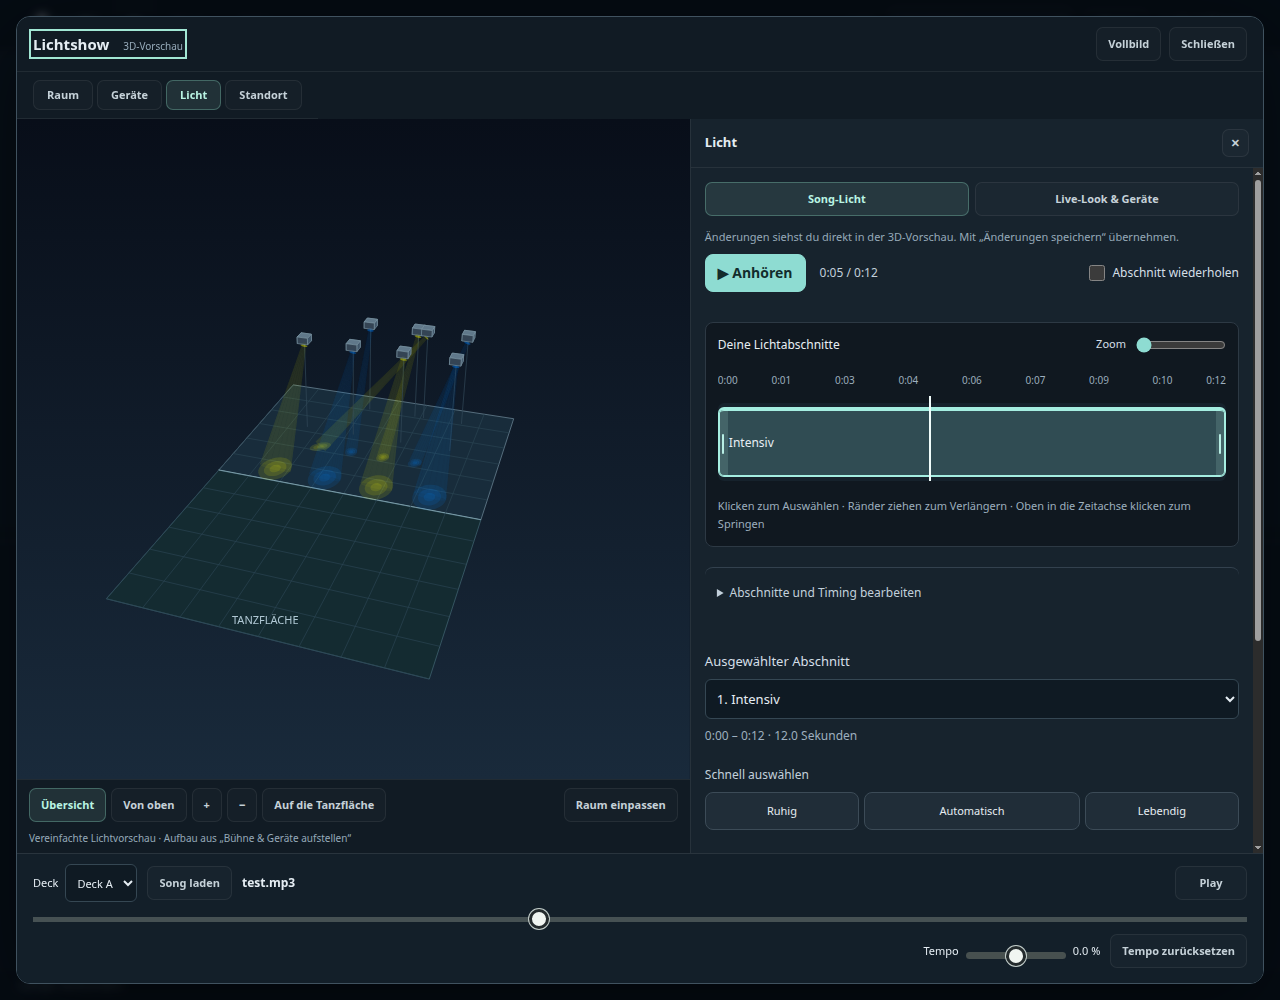
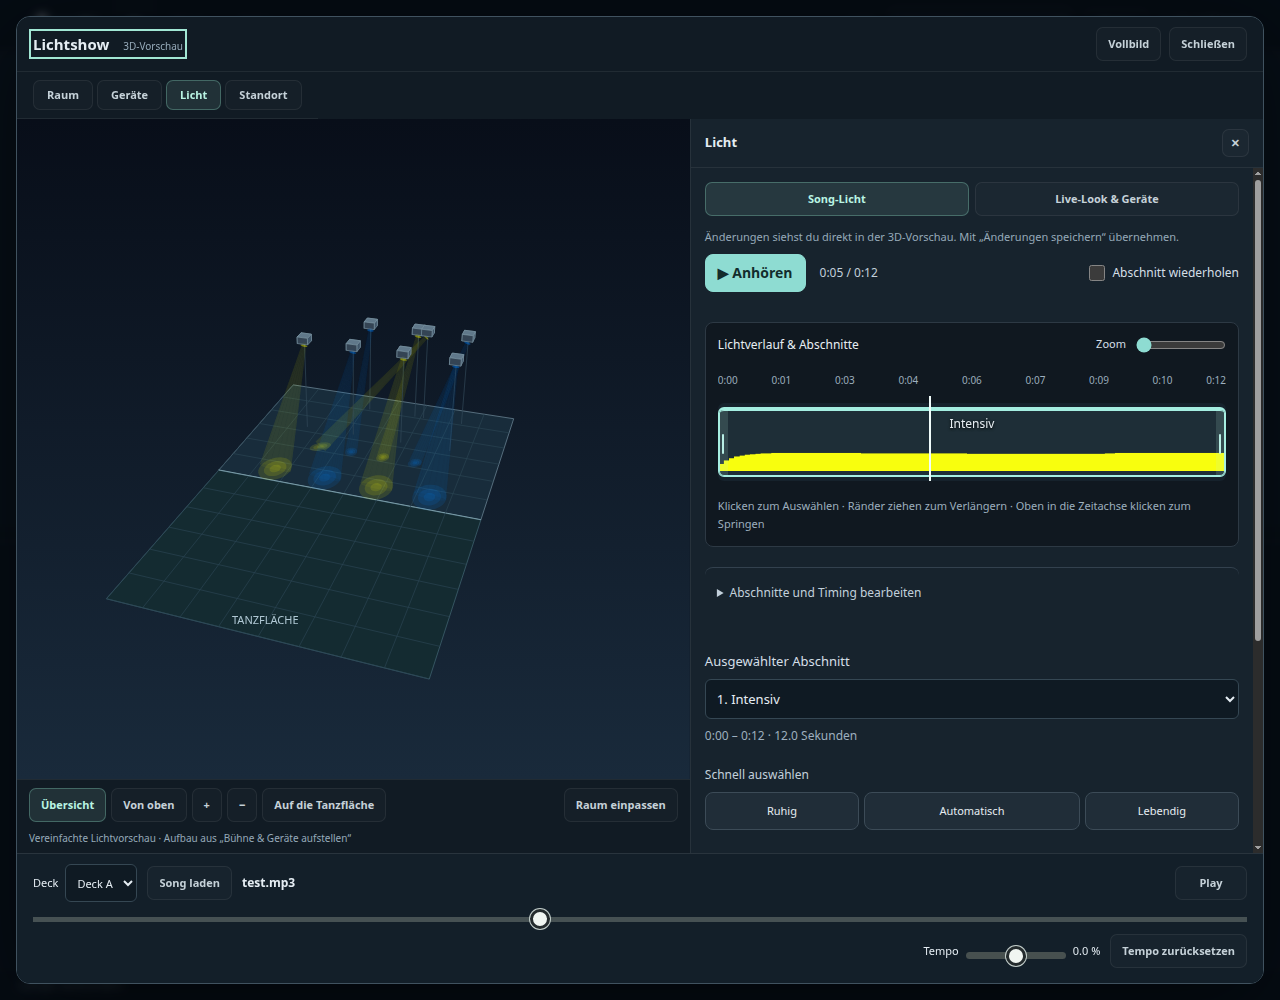
Fixed

Changed region(s): [[0.5625, 0.403, 0.9688, 0.496], [0.5625, 0.341, 0.6562, 0.372], [0.4062, 0.899, 0.4375, 0.93]]

diff --git a/public/light-editor.js b/public/light-editor.js
@@ -14,7 +14,7 @@ export function createLightEditor(host,{plan,edits,title='Lichtshow',position=()
       <div class="le-transport"><button type="button" data-play disabled>▶ Anhören</button><output data-clock></output><label class="le-check"><input type="checkbox" data-loop> Abschnitt wiederholen</label></div>
       <p class="le-audio-note" data-audio-note hidden>Zum Anhören die Audiodatei im DJ-Pult laden. Die Lichtvorschau ist bereits verfügbar.</p>
       <div class="le-timeline-card"><div class="le-timeline-tools"><strong>Deine Lichtabschnitte</strong><label class="le-zoom">Zoom<input data-zoom type="range" min="1" max="8" step="1" value="1"></label></div><div data-timeline></div><p class="le-guidance">Klicken zum Auswählen · Ränder ziehen zum Verlängern · Oben in die Zeitachse klicken zum Springen</p></div>
-      <div class="le-preview-card"><div data-set-preview hidden></div><div class="light-editor-preview"><span data-orb aria-hidden="true"></span><div><strong>Lichtvorschau</strong><p>Farbe und Helligkeit an der Abspielposition</p></div></div><canvas width="800" height="44" aria-label="Farb- und Helligkeitsverlauf der Lichtshow"></canvas></div>
+      <div class="le-preview-card"><div data-set-preview hidden></div><div class="light-editor-preview"><span data-orb aria-hidden="true"></span><div><strong>Lichtvorschau</strong><p>Farbe und Helligkeit an der Abspielposition</p></div></div><strong class="le-curve-heading">Lichtverlauf</strong><canvas width="800" height="44" aria-label="Farb- und Helligkeitsverlauf der Lichtshow"></canvas></div>
       <details class="le-tools"><summary>Abschnitte und Timing bearbeiten</summary><div class="le-tool-grid"><label>Zeiten einrasten<select data-snap><option value="beat">Am Beat</option><option value="bar">Am Takt</option><option value="free">Frei</option></select></label><label>Teilung bei Sekunde<input data-split-time type="number" min="0" step="any"></label></div><div class="le-actions"><button type="button" data-position>Position aus dem DJ-Pult</button><button type="button" data-split>Hier teilen</button><button type="button" data-merge>Mit nächstem verbinden</button><button type="button" data-add>In freiem Bereich hinzufügen</button><button type="button" data-duplicate>Duplizieren</button><button type="button" data-delete>Abschnitt entfernen</button></div><p>Freie Bereiche verwenden die automatisch berechnete Show. Zum Verschieben braucht ein Abschnitt freien Platz.</p><p>Tastatur: Pfeiltasten verschieben im gewählten Raster. Bei „Frei“: 0,1 s, mit Umschalt: 1 s.</p><button type="button" data-reset>Alle Abschnitte zurücksetzen</button></details>
     </section>
     <aside class="le-inspector" aria-label="Ausgewählten Abschnitt gestalten">

diff --git a/public/dmx-stage-3d.css b/public/dmx-stage-3d.css
@@ -100,7 +100,9 @@ html:has(.stage-3d-dialog[open]){overflow:hidden}body:has(.stage-3d-dialog[open]
 .stage-3d-light-tabs{display:flex;gap:6px;margin-bottom:12px}.stage-3d-light-tabs .button{flex:1}
 .stage-3d-song-editor-hint{font-size:11px;margin:0 0 10px}
 .stage-3d .stage-3d-song-editor .light-editor{width:100%;max-width:none;padding:0;background:transparent;min-width:0}
-.stage-3d .stage-3d-song-editor .le-header,.stage-3d .stage-3d-song-editor .le-preview-card,.stage-3d .stage-3d-song-editor .le-intro{display:none}
+.stage-3d .stage-3d-song-editor .le-header,.stage-3d .stage-3d-song-editor .le-preview-card [data-set-preview],.stage-3d .stage-3d-song-editor .light-editor-preview,.stage-3d .stage-3d-song-editor .le-intro{display:none}
+.stage-3d .stage-3d-song-editor .le-preview-card{padding:12px;border-radius:8px}
+.stage-3d .stage-3d-song-editor .le-preview-card canvas{height:44px;margin-top:8px}
 .stage-3d .stage-3d-song-editor .le-workspace{display:flex;flex-direction:column;gap:12px;padding:0;min-width:0}
 .stage-3d .stage-3d-song-editor .le-main,.stage-3d .stage-3d-song-editor .le-inspector{padding:0;min-width:0;border:0;background:transparent}
 .stage-3d .stage-3d-song-editor .le-timeline-card,.stage-3d .stage-3d-song-editor .le-tools{padding:12px;border-radius:8px}
@@ -112,3 +114,13 @@ html:has(.stage-3d-dialog[open]){overflow:hidden}body:has(.stage-3d-dialog[open]
 .stage-3d-transport .stage-3d-song-position{height:24px;margin-top:5px}
 .stage-3d-transport .stage-3d-song-bottom{justify-content:flex-end}
 @media(max-width:760px){.stage-3d-workspace.has-tools.editing-song{grid-template-columns:minmax(0,1fr)}.stage-3d .stage-3d-song-editor .le-tool-grid{grid-template-columns:1fr}}
+
+/* One time axis for section editing and the draft's colour/brightness curve. */
+.stage-3d .stage-3d-song-editor .le-preview-card{display:none}
+.stage-3d .stage-3d-song-editor .le-combined canvas{position:absolute;left:0;bottom:10px;width:100%;height:44px;margin:0;border-radius:0;pointer-events:none;z-index:1;background:transparent}
+.stage-3d .stage-3d-song-editor .le-combined .le-phases{background:#16222c}
+.stage-3d .stage-3d-song-editor .le-combined .le-phase{z-index:2;background:transparent}
+.stage-3d .stage-3d-song-editor .le-combined .le-phase[data-selected=true]{background:#a5eee110}
+.stage-3d .stage-3d-song-editor .le-combined .le-move{display:flex;align-items:flex-start;padding:6px 10px;text-shadow:0 1px 3px #000}
+.stage-3d .stage-3d-song-editor .le-combined .le-move:hover{background:#ffffff0a}
+.stage-3d .stage-3d-song-editor .le-combined .le-playhead{z-index:3}

diff --git a/web/index.html b/web/index.html
@@ -23,6 +23,10 @@
  <div class="section-heading"><p class="eyebrow">AUTOMATISCHE LICHTBERECHNUNG</p><h2>Die Musik gibt<br>dem Licht den Takt.</h2><p>Aus deinen Tracks entsteht eine Lichtshow, die Rhythmus, Energie und Songverlauf aufgreift.</p></div>
  <div class="story-copy"><h3>Akzente für den Beat. Raum für ruhige Momente.</h3><p>AnyDj berechnet Lichtwechsel, Helligkeit und Bewegungen passend zur Musik. Beats setzen Akzente, ruhigere Passagen nehmen die Beleuchtung zurück und neue Songabschnitte bringen Abwechslung in die Show.</p><p>Die Desktop-App analysiert dafür Beats, Musikstil, Songstruktur und Instrumentaktivität. Dein gewählter Lichtstil und deine Farben bestimmen den Look. Du kannst die berechnete Show in der Vorschau ansehen und Lichtabschnitte nach deinen Vorstellungen bearbeiten.</p><p>Lass deine Titel vor dem Einsatz analysieren, damit du Mix und Lichtshow in Ruhe vorbereiten kannst.</p></div>
 </section>
+<section class="section requirements dj-story" aria-labelledby="dein-feingefuehl">
+ <div class="section-heading"><p class="eyebrow">DEIN GEFÜHL MACHT DEN UNTERSCHIED</p><h2 id="dein-feingefuehl">Eine gute Show.<br><em>Durch dich unvergesslich.</em></h2></div>
+ <div class="story-copy"><p class="lead">Du spürst, was dein Publikum bewegt.</p><p>AnyDj gibt dir mit automatisch berechneten Übergängen und Lichtshows eine starke Grundlage. Du bringst das Gespür für den nächsten Track, den richtigen Moment und die Stimmung auf der Tanzfläche mit. Damit wird aus einer guten Show dein ganz besonderer Abend.</p><p>Gib jedem Detail deine Handschrift: Verfeinere Ein- und Ausstiege, passe die Dauer deiner Übergänge an und gestalte Farben, Helligkeit und Lichtabschnitte. Probiere deine Ideen in der Vorschau aus, bis sich alles richtig anfühlt.</p><p>Du entscheidest, wie viel du der Automatik überlässt und wo du selbst feinjustierst. Lass uns dir helfen, jeden Abend unvergesslich zu machen.</p><a class="text-link" href="./dj.html">Deine Show gestalten ↗</a></div>
+</section>
 <section class="section" id="buehne">
  <div class="section-heading"><p class="eyebrow">3D-BÜHNE &amp; LICHTVORSCHAU</p><h2>Erlebe dein Licht.<br>Von deinem Platz aus.</h2><p>Baue dein Setup virtuell auf und entdecke, wie Farben, Lichtkegel und Bewegungen im Raum zusammenspielen.</p></div>
  <div class="feature-grid">

diff --git a/public/dmx-stage-workspace.js b/public/dmx-stage-workspace.js
@@ -46,6 +46,12 @@ export function createStageWorkspace(panel,{mountLayout,mountLighting,onFit,tran
       const editor=await transport.mountEditor(editorMount,{signal:pending.signal,onDispose:()=>{if(own!==epoch)return;session=null;songHint.textContent='Entwurf bleibt für diese Sitzung erhalten.';retry.hidden=false;}});
       if(own!==epoch||disposed){editor?.destroy();return;}
       pending=null;session=editor;
+      if(editor){
+        // Share the timeline's zoom, scroll and playhead with the existing light curve.
+        const track=editorMount.querySelector('.le-track'),curve=editorMount.querySelector('.le-preview-card canvas');
+        track.classList.add('le-combined');track.insertBefore(curve,track.querySelector('.le-phases'));
+        editorMount.querySelector('.le-timeline-tools strong').textContent='Lichtverlauf & Abschnitte';
+      }
       songHint.textContent=editor?'Änderungen siehst du direkt in der 3D-Vorschau. Mit „Änderungen speichern“ übernehmen.':'Für diesen Song ist noch kein Lichtplan verfügbar.';
       retry.hidden=Boolean(editor);
     }catch(error){if(own!==epoch)return;pending=null;songHint.textContent=error.message;retry.hidden=false;}

diff --git a/public/light-editor.css b/public/light-editor.css
@@ -36,3 +36,5 @@ dialog.section-editor:has(.light-editor){width:min(1160px,96vw);max-width:96vw;m
 .light-editor .le-preview-card:has([data-set-preview]:not([hidden])) .light-editor-preview{display:none}
 .light-editor .le-preview-card:has([data-set-preview]:not([hidden])) canvas{margin-top:12px;height:24px}
 @media(max-width:600px){.light-editor [data-set-preview] .stage-scene{height:220px}}
+
+.light-editor .le-curve-heading{display:block;font-size:12px;font-weight:500;margin-bottom:8px}

diff --git a/reports/dmx-stage-3d.md b/reports/dmx-stage-3d.md
@@ -10,16 +10,19 @@ liegt sie über der Vorschau; die Musikleiste bleibt weiterhin sichtbar.
 - **Raum:** Club/Bühne wählen, Raummaße und Lichtbereich einstellen.
 - **Geräte:** vorhandenen Geräteplan direkt bearbeiten, einschließlich
   Ziehen, Tastaturnavigation, Montagehöhe und symmetrischem Aufbau.
-- **Licht:** bestehende Live-Look-, Feinschliff-, Ausstattungs- und
-  Verbindungswerkzeuge direkt im Fenster. Die Originalelemente werden
-  vorübergehend eingebettet und anschließend an ihren Platz zurückgegeben.
+- **Licht:** Song-Lichtmanager direkt neben der 3D-Vorschau, mit Abschnittstimeline,
+  Farben, Bewegung, Teilen/Zusammenführen, Undo/Redo und Speichern. Unter
+  „Live-Look & Geräte“ bleiben Feinschliff, Ausstattung und Verbindung erreichbar.
 - **Standort:** Augenhöhe und Position auf der Tanzfläche; die Ansicht wird
   über „Auf die Tanzfläche“ aktiviert.
 - **Song laden:** Bibliothek des DJ-Pults nutzen oder Audiodateien hinzufügen.
   Ein laufendes Deck muss zum Songwechsel pausiert werden.
-- **Song-Licht:** vorhandenen Abschnittseditor für den ausgewählten Song
-  öffnen; dieser pausiert die DJ-Wiedergabe und kehrt beim Schließen in das
-  Arbeitsfenster zurück.
+- **Song-Licht:** nutzt die Audioinstanz des ausgewählten Decks. Positionsbalken
+  und Editor steuern dieselbe Wiedergabe; Änderungen erscheinen direkt in 3D.
+  Speichern lässt den Manager geöffnet. Ungespeicherte Entwürfe bleiben bei
+  Werkzeug-/Deckwechsel und Schließen der 3D-Ansicht für die Sitzung erhalten
+  (nicht nach einem Neuladen der Seite). Die untere Vorschau besteht nur aus
+  einem Positionsbalken ohne zusätzliche Wellenform oder Zeitinformationen.
 
 `dmx-stage-workspace.js` enthält ausschließlich die neue UI-Anordnung.
 `dmx-layout.js` und `dmx-stage.js` stellen kleine Mount-/Restore-Schnittstellen
@@ -123,7 +126,7 @@ Screenshot: `dmx-stage-3d-full.png`.
 
 ## Songsteuerung in der großen Ansicht
 
-Unter der Vorschau: Deck A/B wählen, Wellenform anklicken oder Positionsregler
+Unter der Vorschau: Deck A/B wählen, Positionsregler
 verschieben, Play/Pause und Tempo (−16 bis +16 Prozent, wie im Deck) bedienen.
 Änderungen gehen über die bestehenden Deck-Aktionen an die tatsächliche
 Wiedergabe; Musik und Licht behalten dieselbe Songzeit. Manuelle Tempoänderungen
@@ -135,14 +138,15 @@ bei aktiver Verbindung. Im Full-Modus bleiben die Songregler ausgeblendet.
 `lightStage.setTransport` die Deck-Daten und Aktionen; die 3D-Module kennen keine
 Audio- oder Queue-Interna. Zum Entfernen der 3D-Erweiterung zusätzlich diese
 Anbindung, das Transport-Modul und dessen Asset-Route entfernen.
-`dj-waveform.js` ist ein gemeinsamer Zeichner für Decks und Songsteuerung und
+`dj-waveform.js` zeichnet die Wellenformen der Decks und
 muss für die normalen Decks erhalten bleiben.
 
 Die Deck-Wellenform und ihr Positionsregler werden im selben Takt aktualisiert.
 Die Reglergeometrie berücksichtigt die Knopfbreite. Die Berechnungsinformation
 sitzt in einem festen, bei Bedarf scrollbareren Bereich am Deck-Ende.
 `node scripts/check-dmx-stage-transport.mjs` prüft mit echter Testaudiodatei
-Tempo, Sprünge, Wellenform-Klick, Play/Pause, leeres Deck, pixelgenaue Ausrichtung
+Tempo, Sprünge, integrierten Lichtmanager, gemeinsame Wiedergabe, Speichern,
+Entwurfserhalt, Play/Pause, leeres Deck, pixelgenaue Ausrichtung
 bei 10/50/90 Prozent und stabilen Statusbereich auf Desktop und Mobilgerät.
 
 ## Gemeinsamer Club-Raum
@@ -203,3 +207,14 @@ Figuren still; ausgeblendete Ansichten zeichnen weiterhin nicht.
 Geometrietest und Browserprüfung decken Aktivierung, Animation, reduzierte
 Bewegung, Platzieren/Entfernen, Mengenlimit und Abschalten ab.
 Screenshot: `dmx-stage-3d-crowd.png`.
+
+Der eigenständige Abschnittseditor bleibt außerhalb der 3D-Ansicht verfügbar.
+`node scripts/check-section-lighting.mjs` prüft dessen Bearbeitung, Speicherung,
+Wiederöffnung, mobile Bedienung und Rückgabe der Bühnenvorschau.
+Screenshot des integrierten Managers: `dmx-stage-light-manager.png`.
+
+Im Licht-Tab liegen Farb-/Helligkeitsverlauf und bearbeitbare Abschnitte jetzt
+in einer gemeinsamen Zeitleiste. Der vorhandene Verlauf-Canvas wird in die
+Timeline eingebettet und teilt Zoom, Scrollposition und Abspielstrich. Die
+separate Verlaufskarte entfällt nur im 3D-Arbeitsfenster. Der Browsercheck
+prüft zusätzlich die deckungsgleichen Zeitachsen bei dreifachem Zoom.
